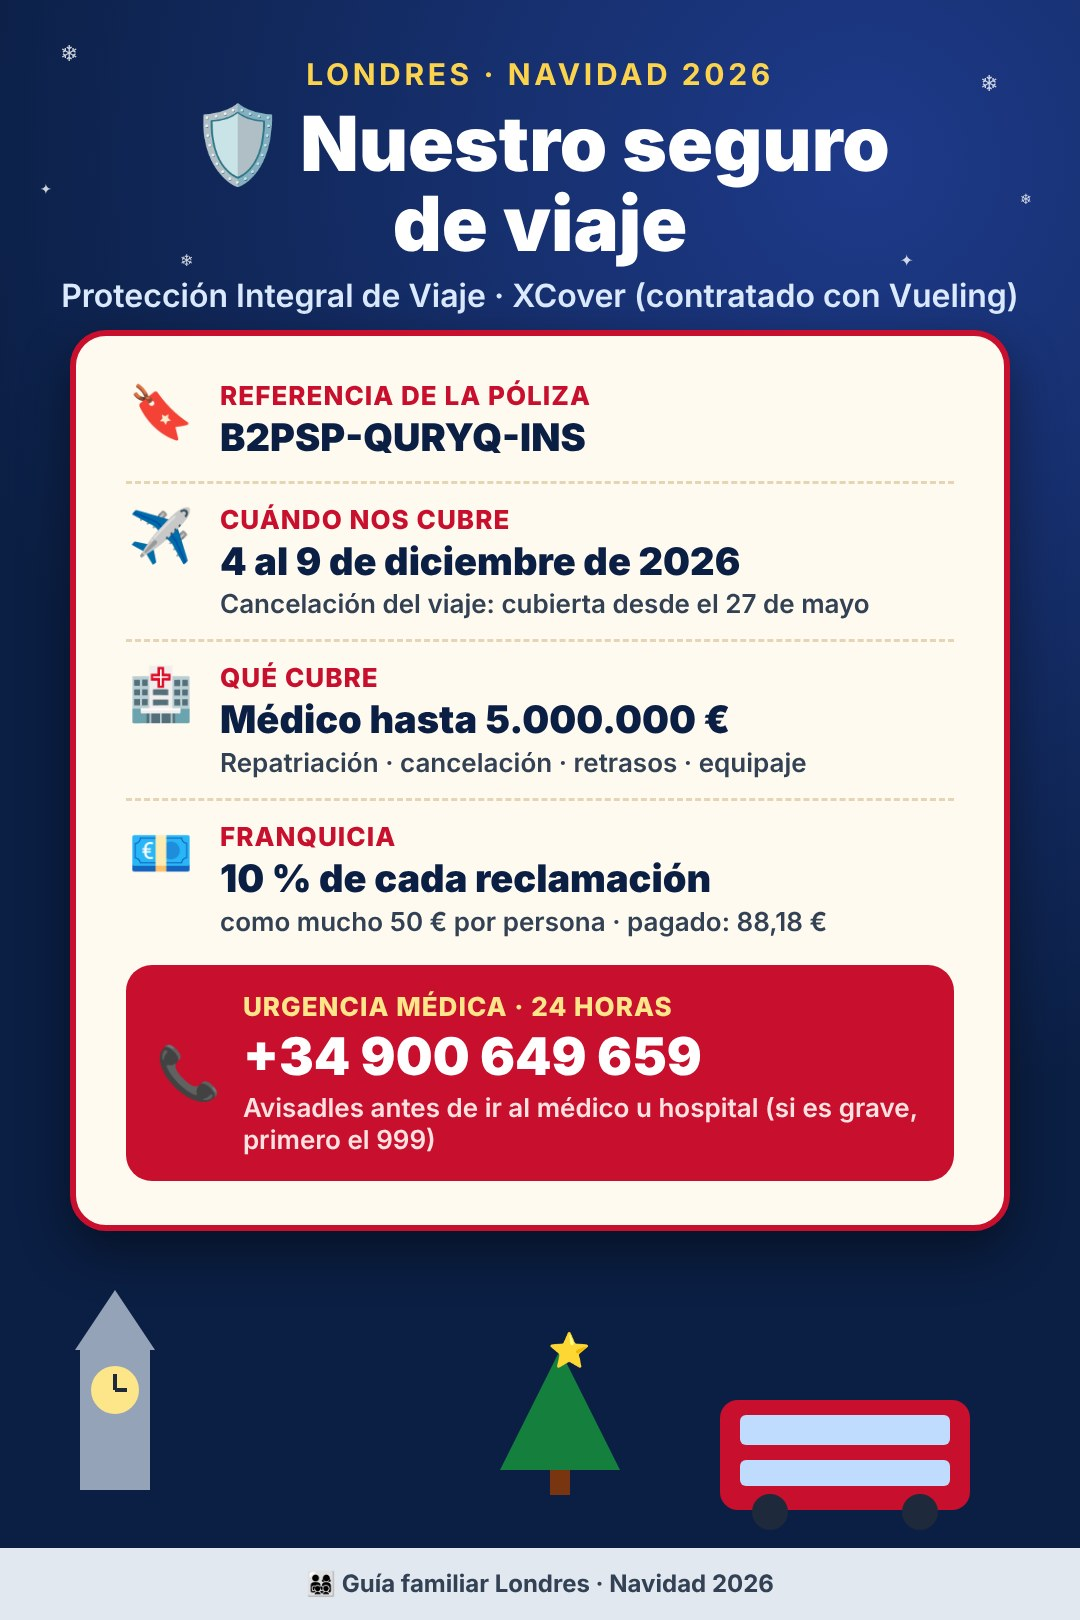
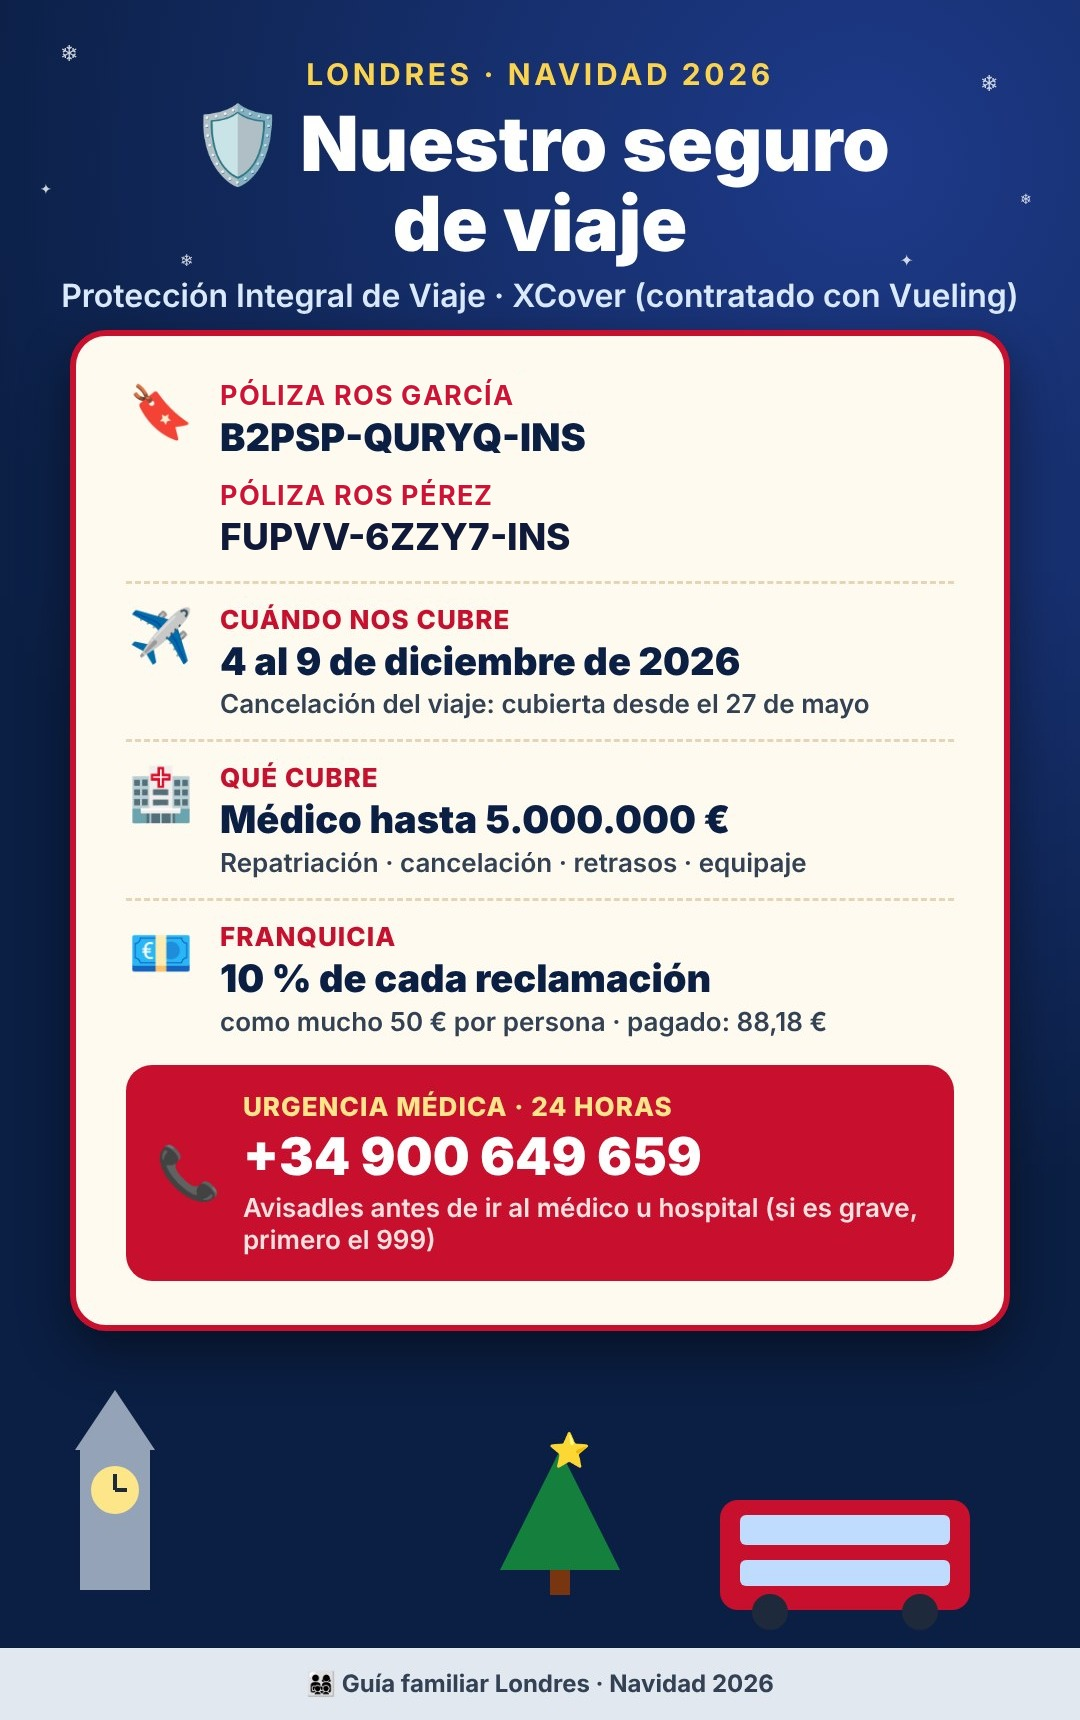
Londres: tarjeta del seguro con la póliza de los Ros Pérez
Claude-Session: https://claude.ai/code/session_01SLpgB6JPCWGQc7EoTMbwsV

Changed region(s): [[0.0611, 0.0309, 0.9472, 0.9259], [0.275, 0.8642, 0.9167, 0.9877], [0.4583, 0.8025, 0.5806, 0.9259]]

diff --git a/londres/index.html b/londres/index.html
@@ -2146,7 +2146,7 @@
     window.openSeguro = function() {
         const row = (a, b) => '<tr><td>' + a + '</td><td>' + b + '</td></tr>';
         const det = (t, body, open) => '<details class="sg-det"' + (open ? ' open' : '') + '><summary>' + t + '</summary><div>' + body + '</div></details>';
-        const h = '<button type="button" class="tv-imgbtn" onclick="viewImg(\'img/seguro.jpg\')"><img class="tv-img" src="img/seguro.jpg" alt="Seguro de viaje XCover: referencia B2PSP-QURYQ-INS, urgencias +34 900 649 659"></button>'
+        const h = '<button type="button" class="tv-imgbtn" onclick="viewImg(\'img/seguro.jpg?v=2\')"><img class="tv-img" src="img/seguro.jpg?v=2" alt="Seguro de viaje XCover: pólizas B2PSP-QURYQ-INS (Ros García) y FUPVV-6ZZY7-INS (Ros Pérez), urgencias +34 900 649 659"></button>'
           + '<a class="sg-call" href="tel:+34900649659">📞 Urgencia médica 24 h · +34 900 649 659</a>'
           + '<a class="sg-call alt" href="tel:999">🚑 Peligro grave en Reino Unido: 999</a>'
           + '<div class="tv-card"><h4>Lo esencial</h4>'
